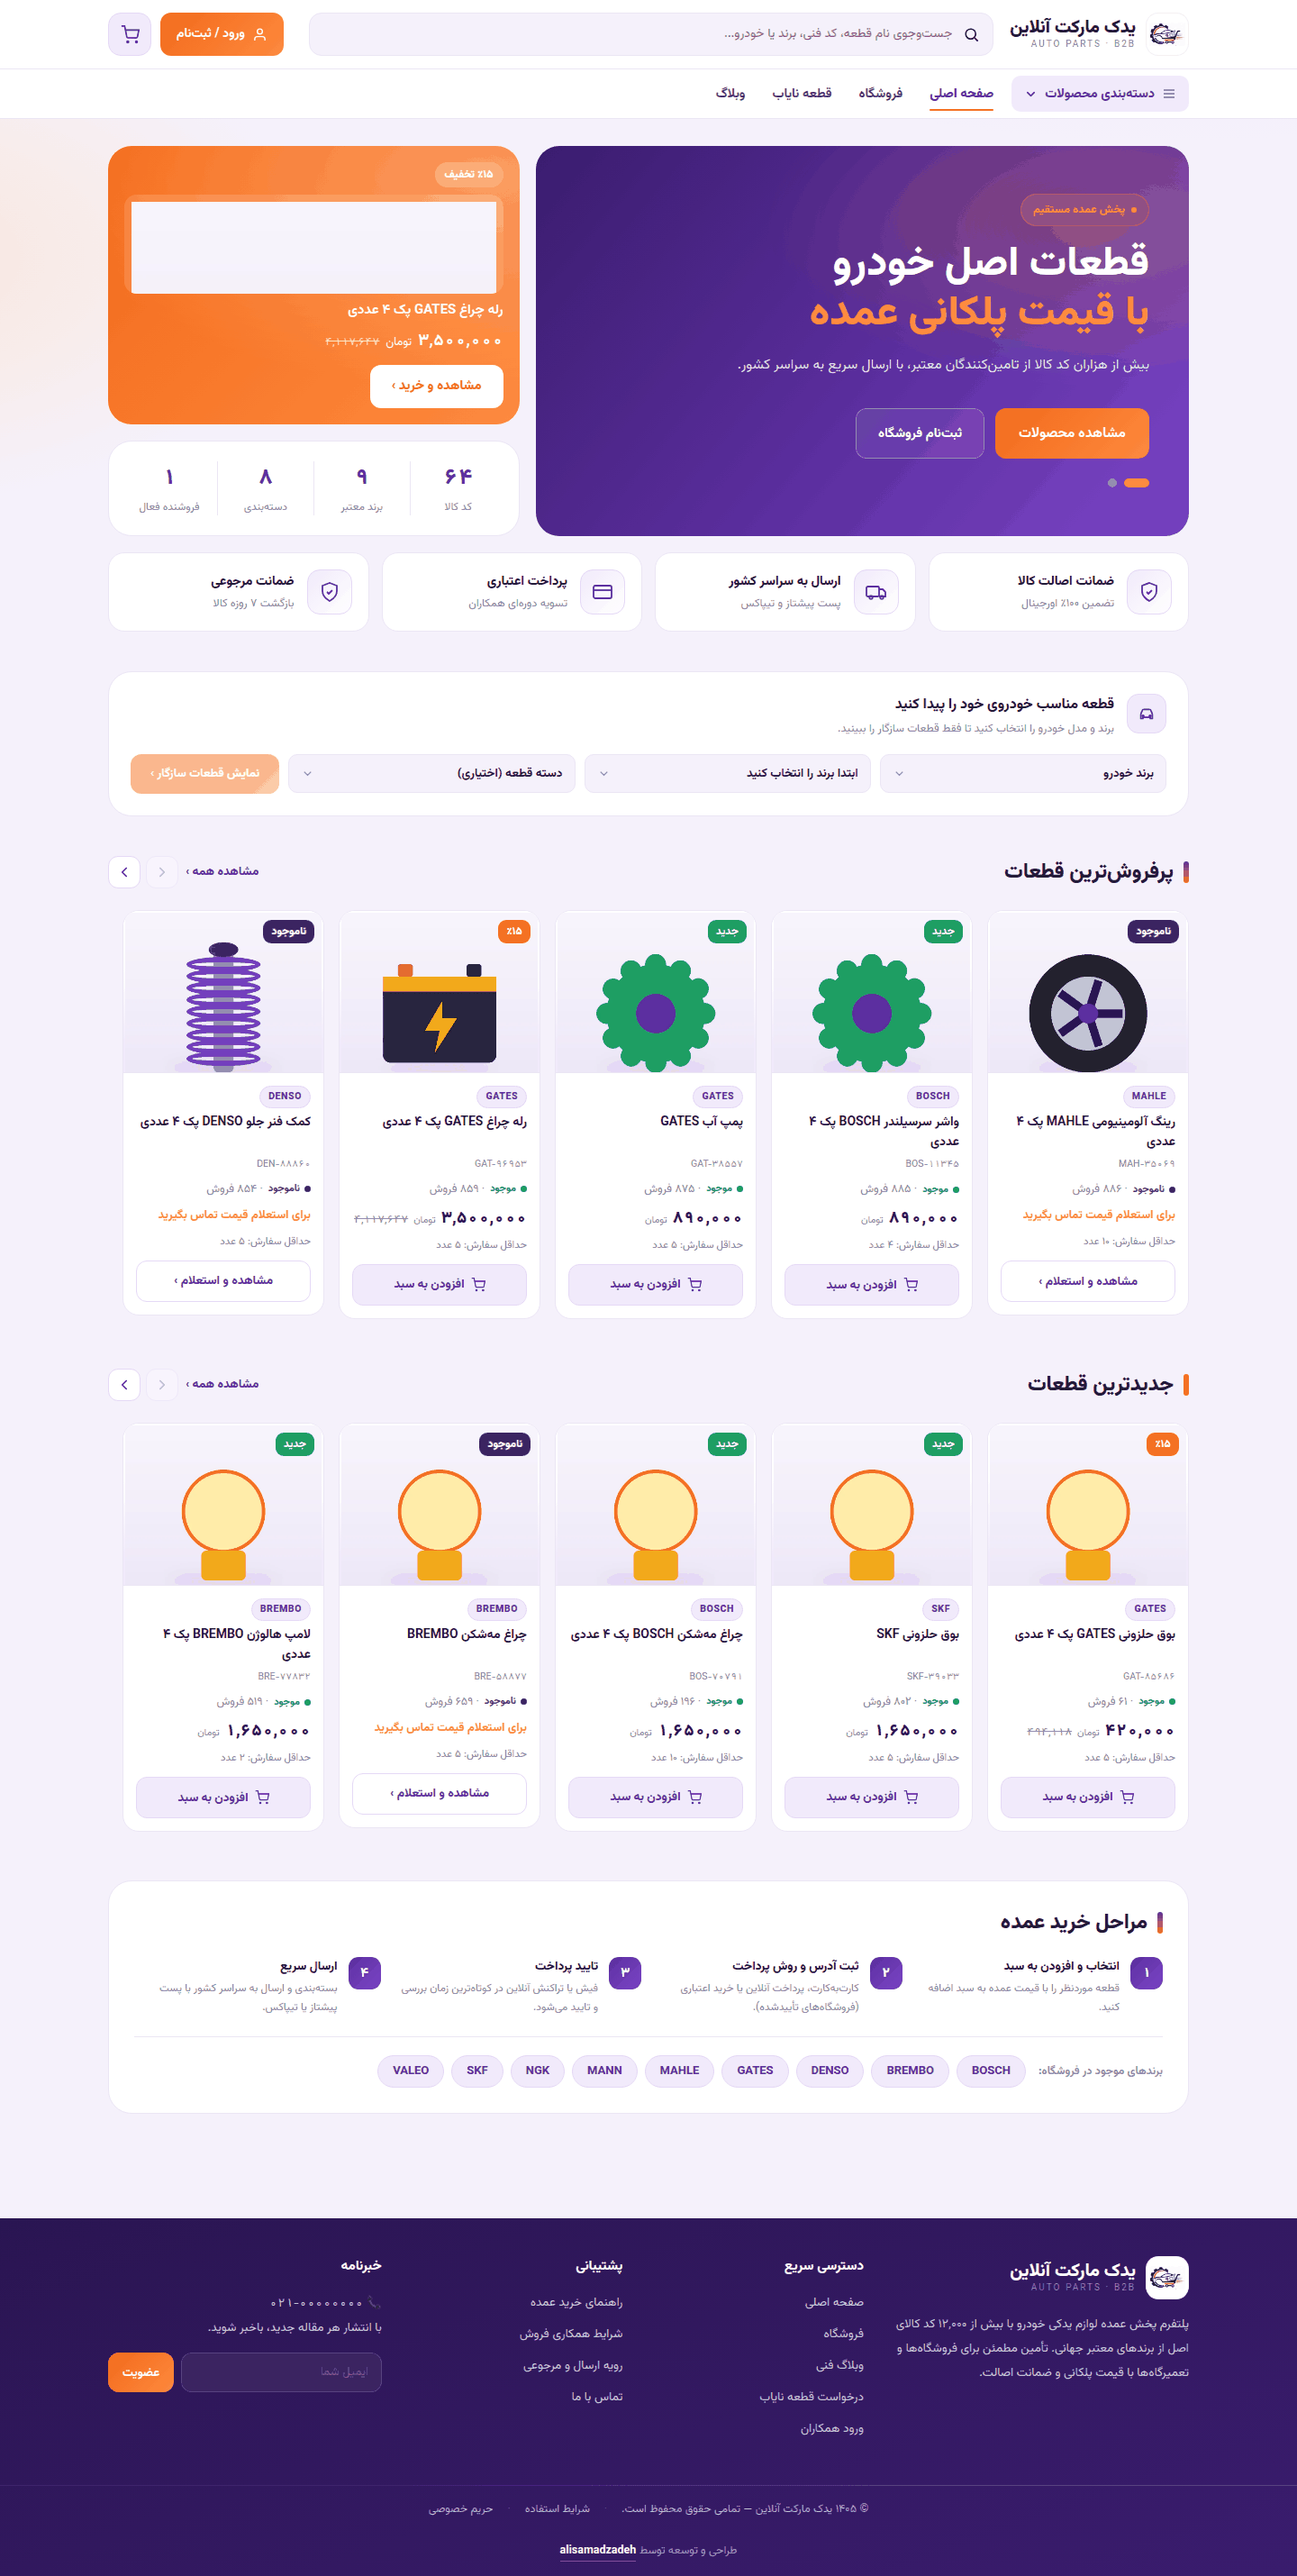
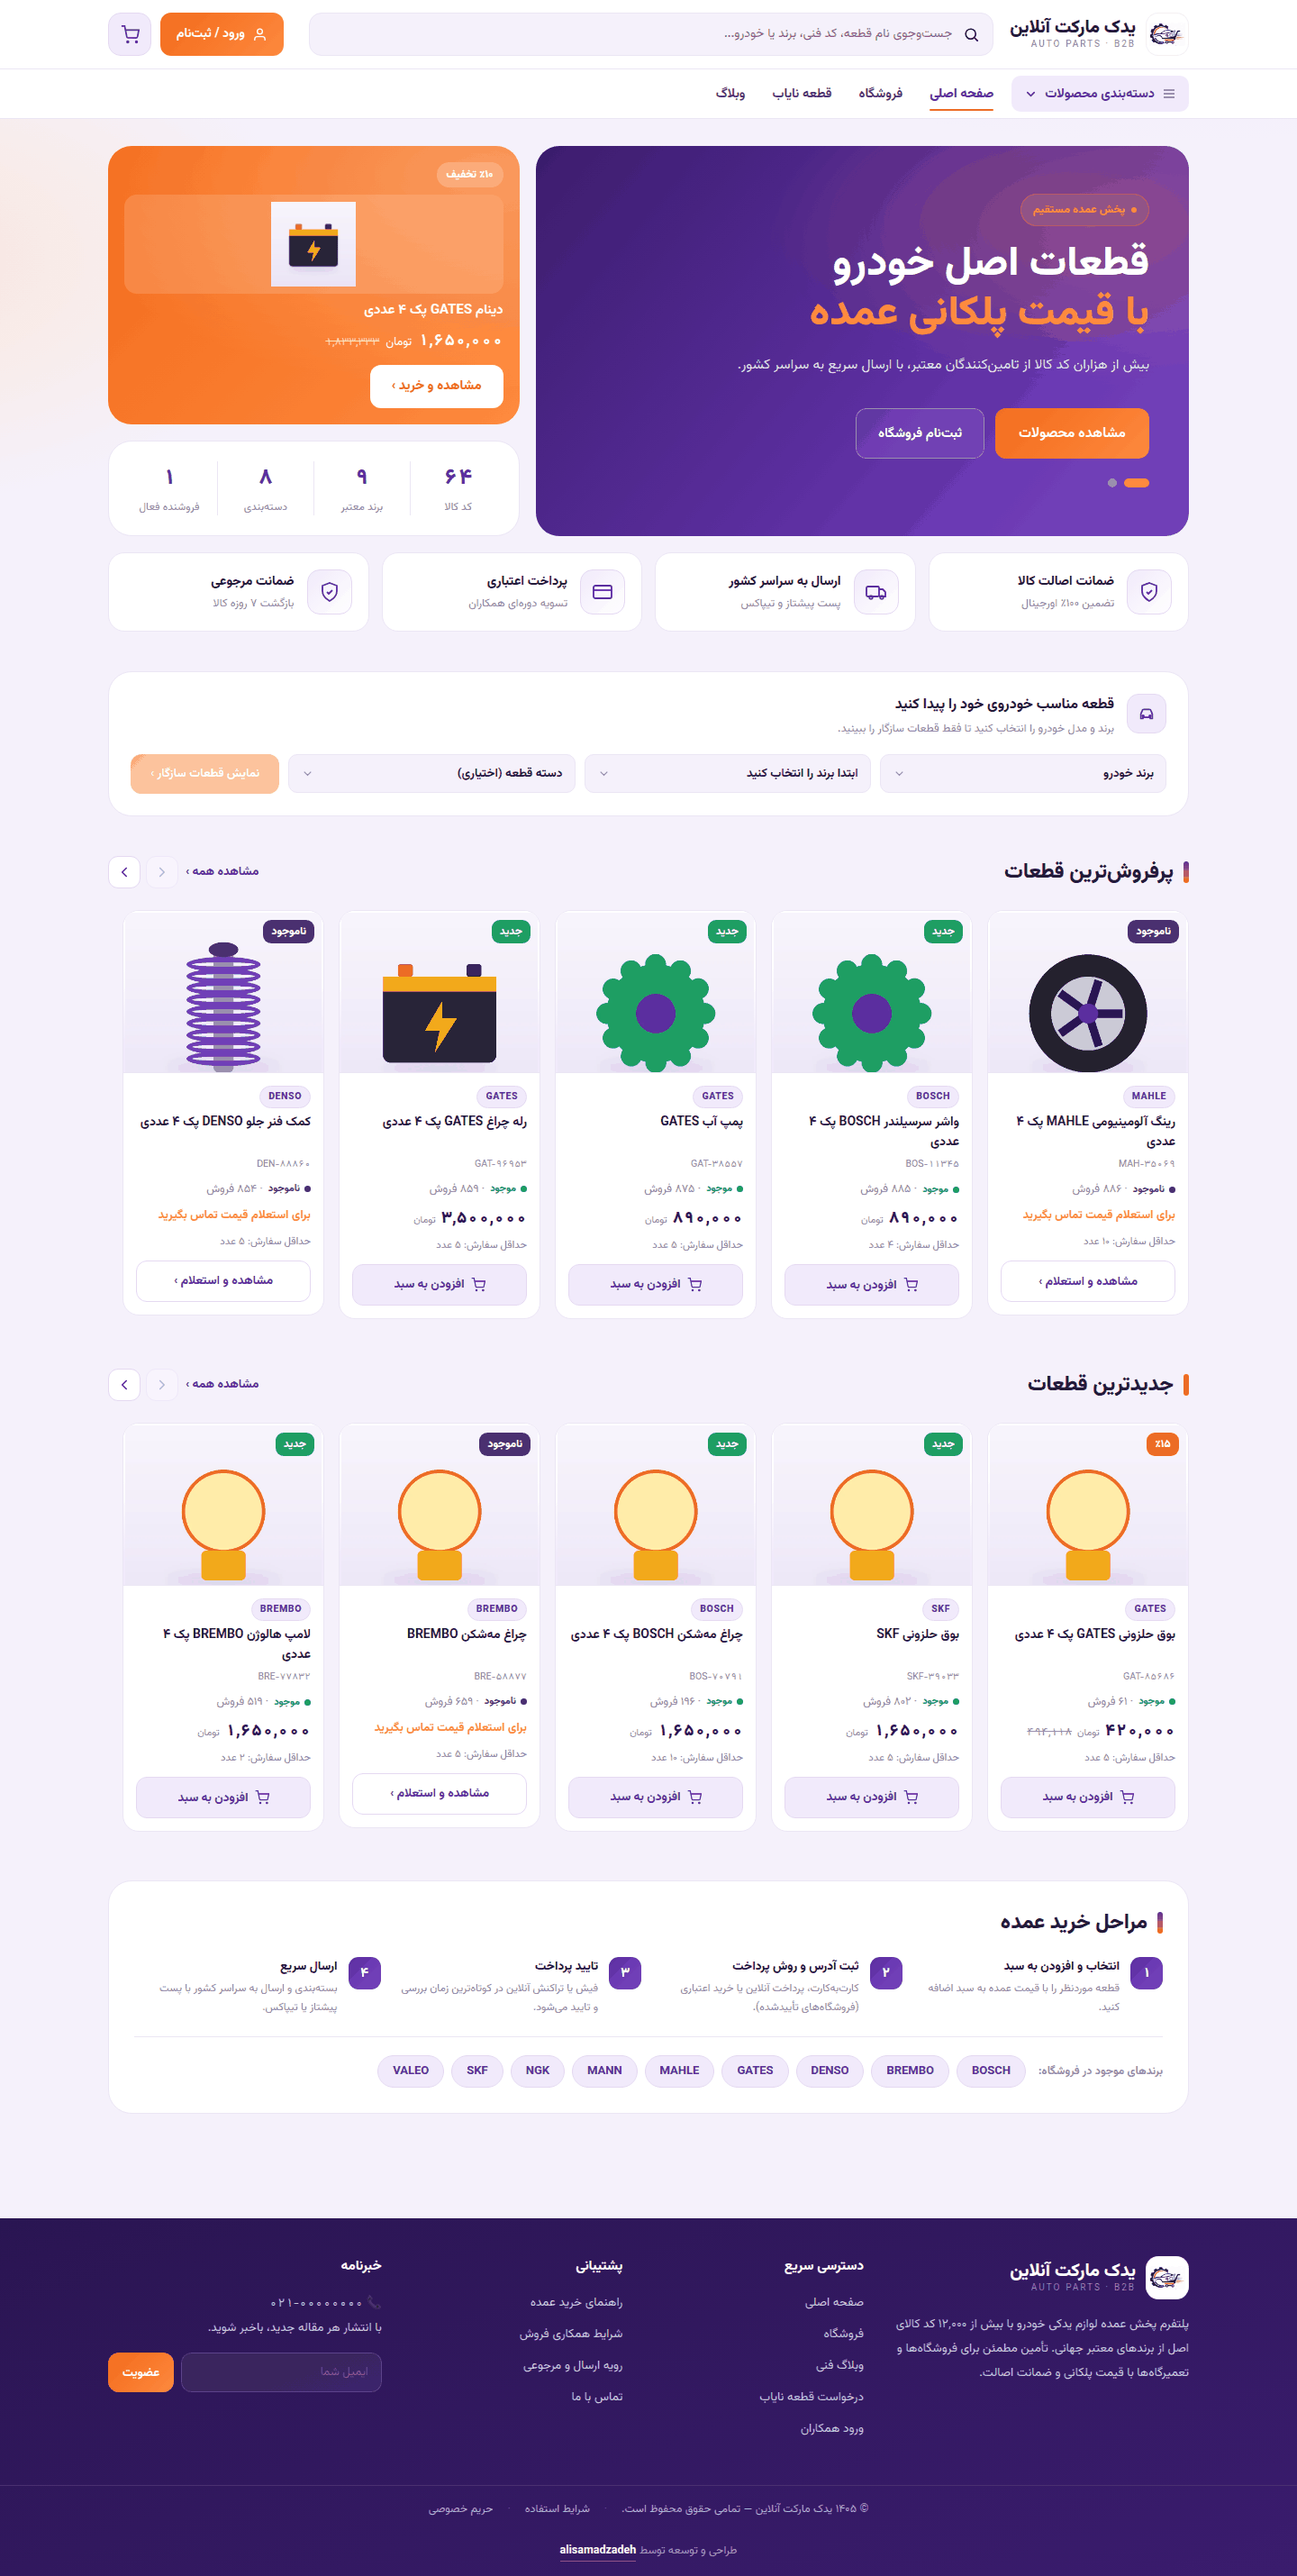
Fix the home promo image and the development origin defaults
- The discounted-product image on the home page grew to its full
  height inside a 110px box, so only its blank top edge was visible.
  Center it with flexbox so it is scaled into the box.
- Default CORS/CSRF origins and FRONTEND_URL to port 3010, where the
  development compose file publishes the storefront. With the old
  port, every panel form was rejected by the CSRF origin check unless
  the values were set in .env.
- Refresh the two storefront screenshots.

Changed region(s): [[0.0938, 0.0623, 0.4062, 0.1245], [0.375, 0.3424, 0.4062, 0.3736]]

diff --git a/frontend/app/globals.css b/frontend/app/globals.css
@@ -177,7 +177,7 @@ section{margin-top:42px;}
 .promo-product{padding:18px;gap:12px;}
 .promo-product .pp-top{display:flex;flex-direction:column;gap:8px;}
 .promo-product .pp-badge{align-self:flex-start;background:rgba(255,255,255,.22);font-size:12px;font-weight:800;padding:5px 11px;border-radius:99px;}
-.promo-product .pp-img{width:100%;height:110px;border-radius:14px;background:rgba(255,255,255,.14);display:grid;place-items:center;overflow:hidden;}
+.promo-product .pp-img{width:100%;height:110px;border-radius:14px;background:rgba(255,255,255,.14);display:flex;align-items:center;justify-content:center;overflow:hidden;}
 .promo-product .pp-img img{width:100%;height:100%;object-fit:contain;padding:8px;}
 .promo-product .pp-name{font-size:15px;font-weight:700;line-height:1.5;}
 .promo-product .pp-price{font-size:13px;display:flex;align-items:baseline;gap:7px;}
